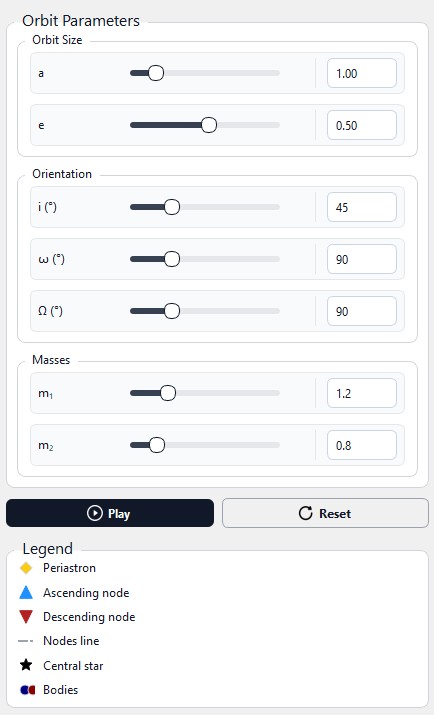
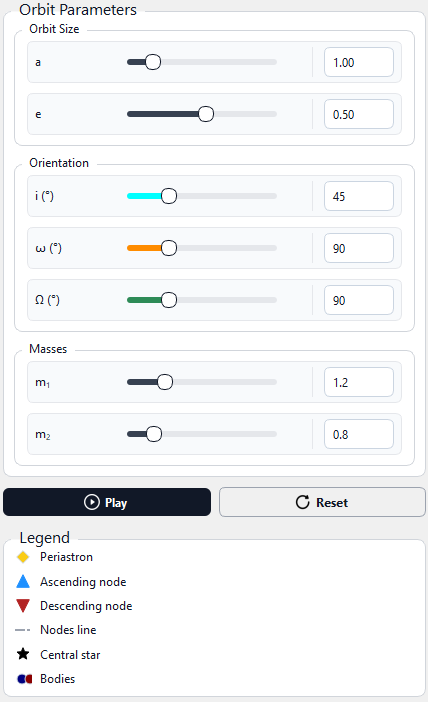
update sliders color

diff --git a/orbel.py b/orbel.py
@@ -17,6 +17,7 @@ from matplotlib.backends.backend_qt5agg import NavigationToolbar2QT as Navigatio
 from matplotlib.figure import Figure
 from mpl_toolkits.mplot3d.art3d import Poly3DCollection
 from mpl_toolkits.mplot3d import proj3d
+from functools import partial
 
 
 def Rz(t):
@@ -807,6 +808,8 @@ class MainWindow(QMainWindow):
         self._bind_mass("m1")
         self._bind_mass("m2")
 
+        self._tint_param_sliders()
+
         self.btn_play.clicked.connect(self.toggle_play)
         self.btn_reset.clicked.connect(self.reset_view)
         self.tabbar.currentChanged.connect(self._on_tab_changed)
@@ -814,6 +817,28 @@ class MainWindow(QMainWindow):
 
         self.apply_params_from_init()
         self._sync_left_spacer()
+
+    def _tint_slider(self, key: str, color: str):
+        sld = self.ctrls[key][0]
+        sld.setStyleSheet(f"""
+        QSlider::groove:horizontal {{
+            height: 6px; background: #e5e7eb; border-radius: 3px;
+        }}
+        QSlider::sub-page:horizontal {{
+            background: {color}; border-radius: 3px;
+        }}
+        QSlider::handle:horizontal {{
+            width: 14px; height: 14px; margin: -5px 0;
+            border: 1px solid #111827; border-radius: 7px; background: #ffffff;
+        }}
+        QSlider::handle:horizontal:hover {{ border: 1px solid #0f172a; }}
+        QSlider::handle:horizontal:pressed {{ width: 16px; height: 16px; }}
+        """)
+
+    def _tint_param_sliders(self):
+        self._tint_slider("i", "cyan")
+        self._tint_slider("w", "darkorange")
+        self._tint_slider("Om", "seagreen")
 
     def show_about(self):
         QMessageBox.about(
@@ -831,18 +856,23 @@ class MainWindow(QMainWindow):
             )
         )
 
+    def _sld_to_spn(self, v, *, spn, mn, st):
+        spn.setValue(mn + v * st)
+
+    def _spn_to_sld(self, x, *, sld, mn, st):
+        sld.setValue(int(round((x - mn) / st)))
+
     def _bind(self, key, cb):
         sld, spn, mn, st = self.ctrls[key]
-        sld.valueChanged.connect(lambda v, mn=mn, st=st, spn=spn: spn.setValue(mn + v*st))
-        spn.valueChanged.connect(lambda x, mn=mn, st=st, sld=sld: sld.setValue(int(round((x-mn)/st))))
+        sld.valueChanged.connect(partial(self._sld_to_spn, spn=spn, mn=mn, st=st))
+        spn.valueChanged.connect(partial(self._spn_to_sld, sld=sld, mn=mn, st=st))
         spn.valueChanged.connect(cb)
 
     def _bind_mass(self, key):
         sld, spn, mn, st = self.ctrls[key]
-        sld.valueChanged.connect(lambda v, mn=mn, st=st, spn=spn: spn.setValue(mn + v*st))
-        spn.valueChanged.connect(lambda x, mn=mn, st=st, sld=sld: sld.setValue(int(round((x-mn)/st))))
+        sld.valueChanged.connect(partial(self._sld_to_spn, spn=spn, mn=mn, st=st))
+        spn.valueChanged.connect(partial(self._spn_to_sld, sld=sld, mn=mn, st=st))
         spn.valueChanged.connect(self.on_mass_changed_abs_only)
-
     def eventFilter(self, obj, event):
         if obj is self.tabbar and event.type() in (QEvent.Resize, QEvent.Show, QEvent.LayoutRequest):
             self._sync_left_spacer()
